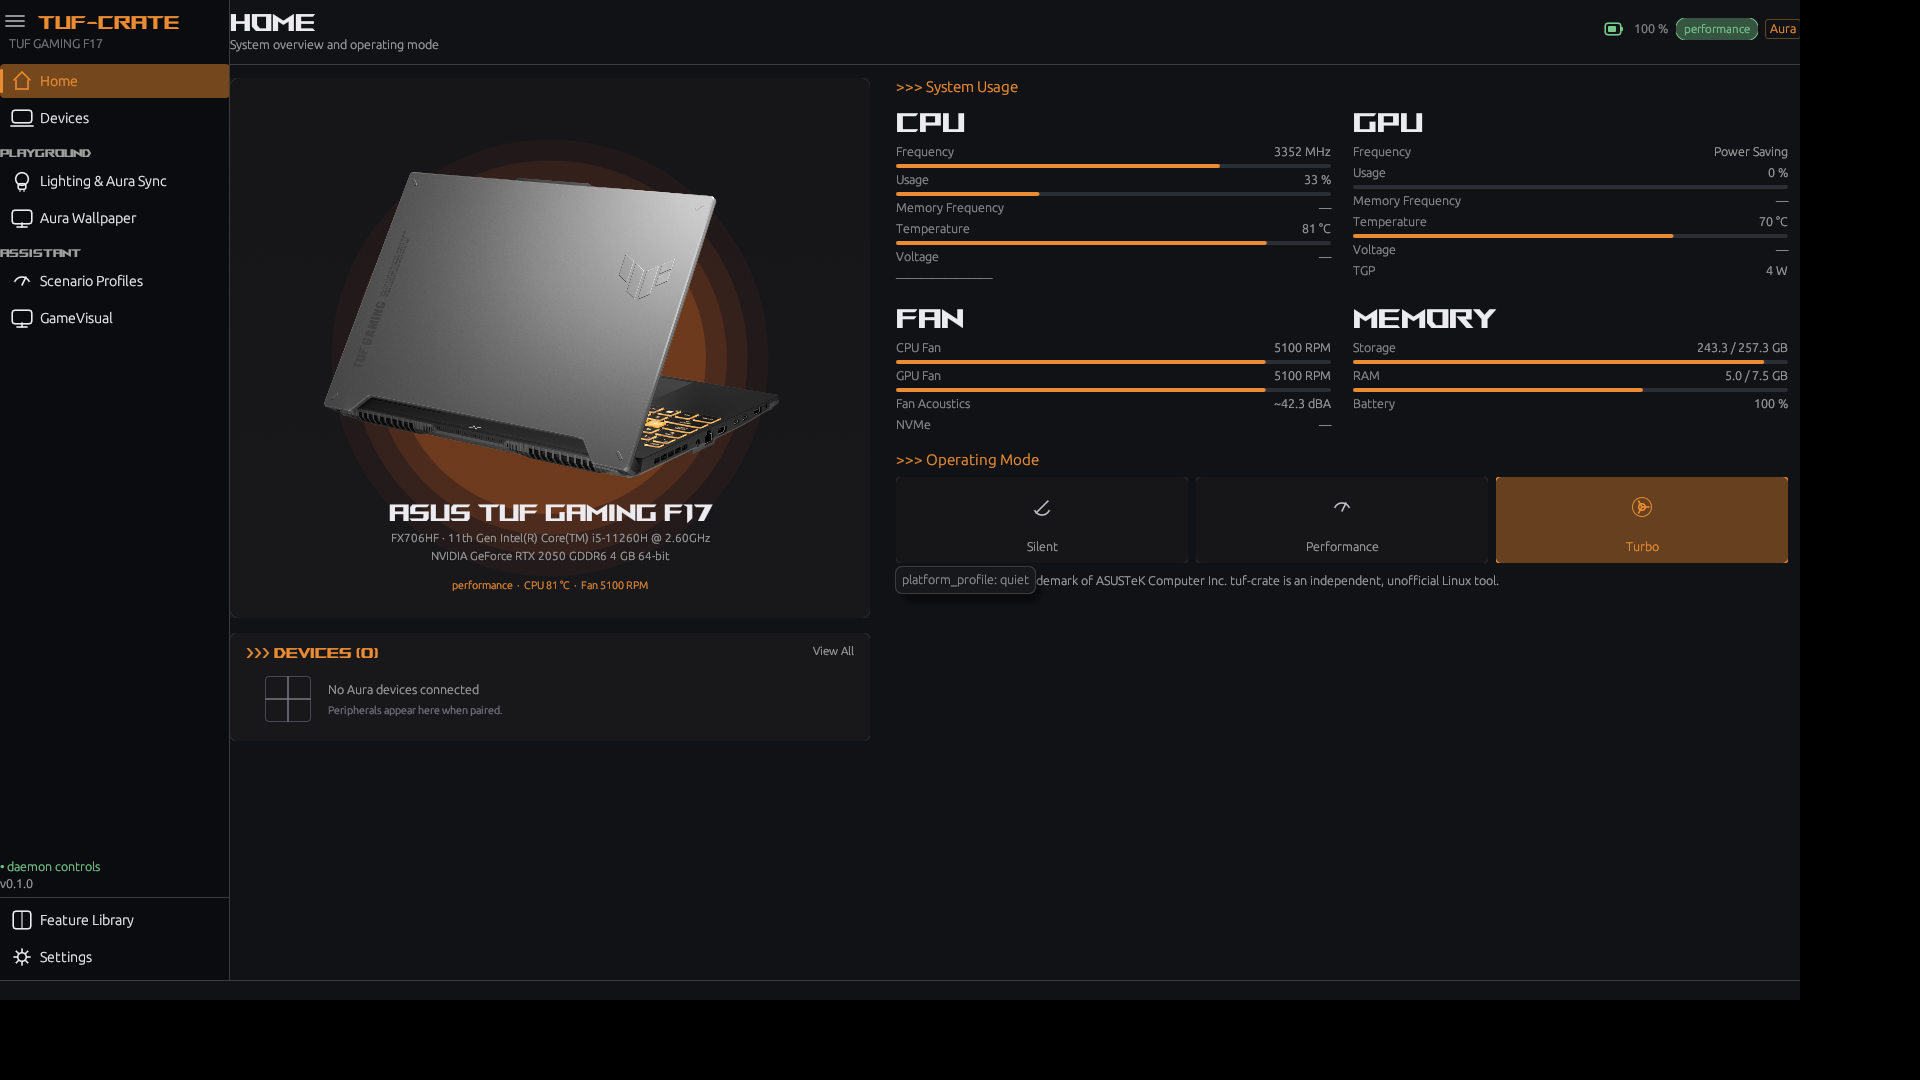
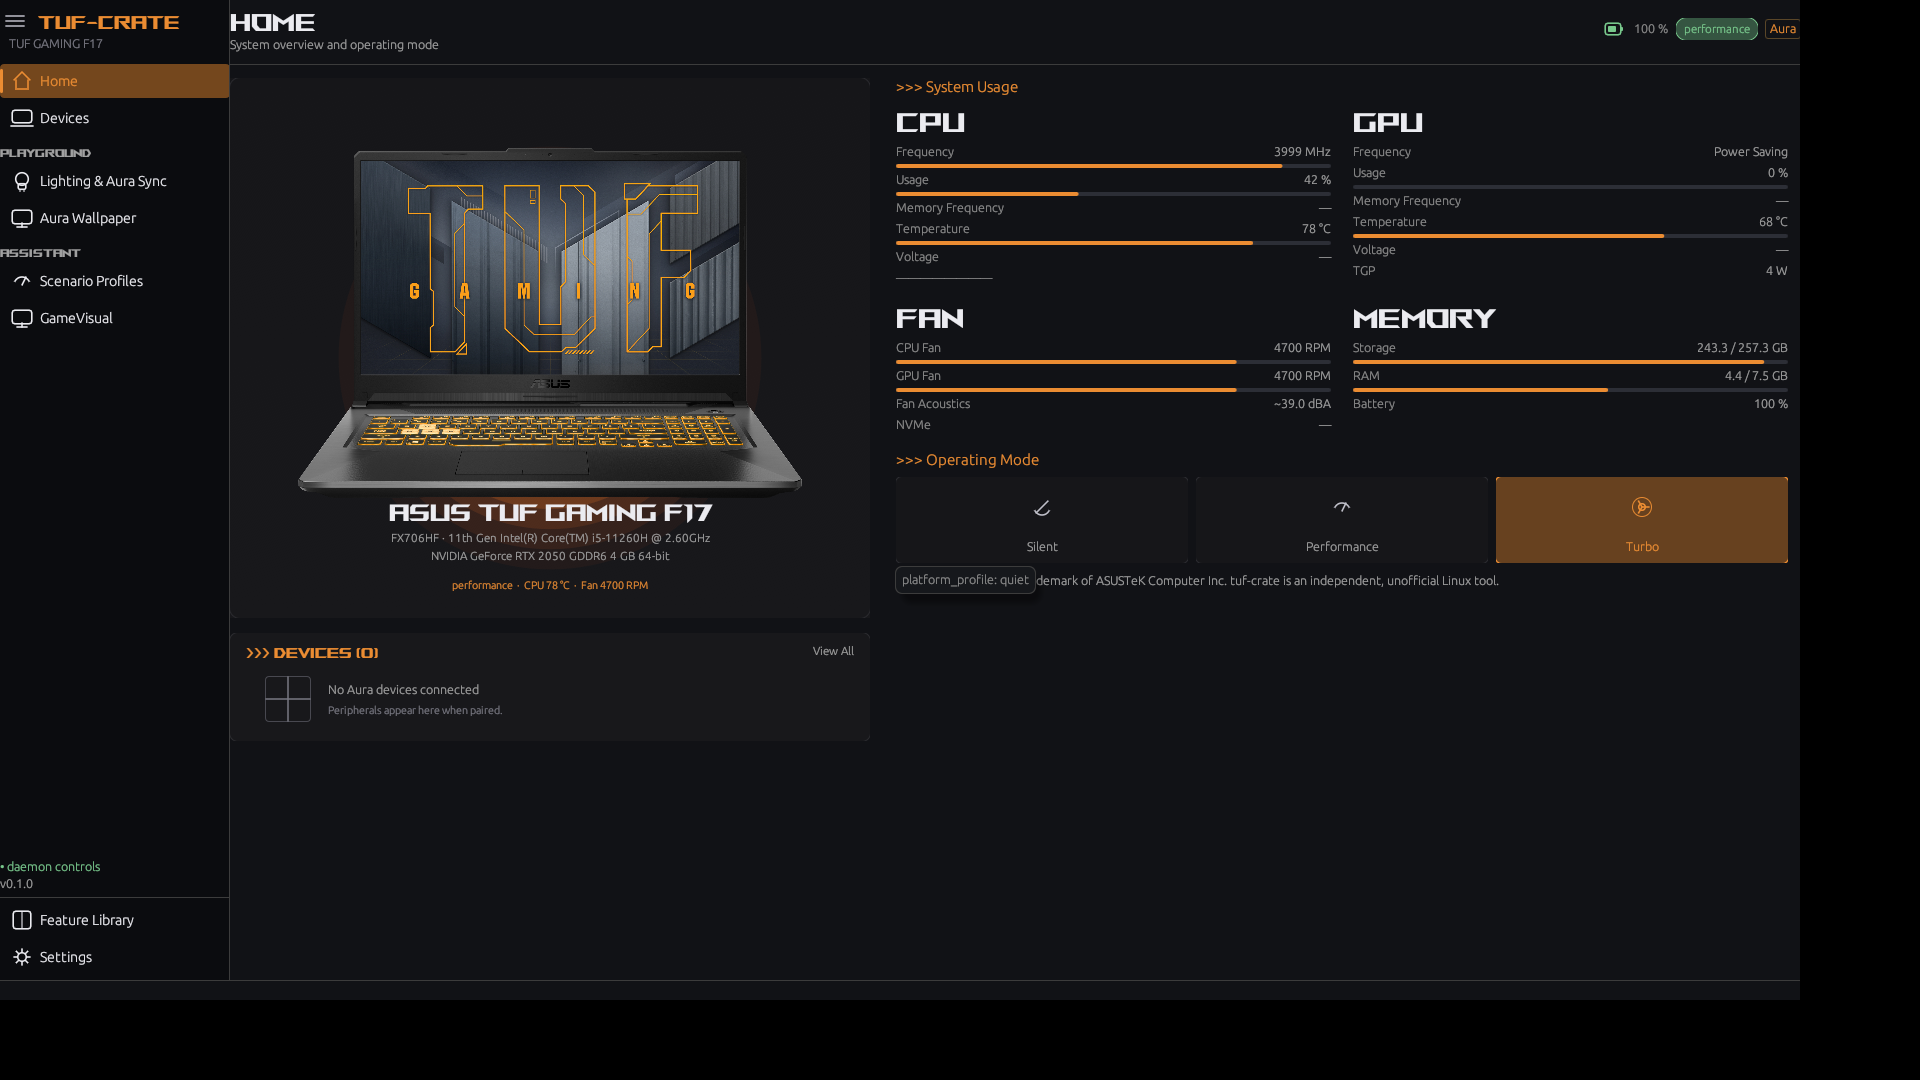
UI: recover the EXACT Armoury Home hero (ProductPNG cache) + model auto-load
- Found Armoury's downloaded hero cache at LocalState\ProductPNG\
  90NR0HC4-M003D0_crop.png (2160x1502 RGBA) — the actual Home image
- Stored local-only in assets/vendor-reference/hero-device/ with provenance,
  dimensions and SHA-256; model auto-detection (DMI board_name FX706HF) loads it
  at startup; official marketing render remains a fallback
- Docs updated with the exact source/part number/hashes; Home comparison and
  screenshots refreshed

Changed region(s): [[0.1562, 0.1222, 0.4375, 0.4889]]

diff --git a/docs/WINDOWS-ASSET-INVENTORY.md b/docs/WINDOWS-ASSET-INVENTORY.md
@@ -29,48 +29,27 @@ and `.csv` (SHA-256, bytes, dimensions per file):
 | Fonts | 2 | `ROGFonts-Regular.ttf` (display font, 112 mapped glyphs), `Glyphter.ttf` (1 glyph) |
 | Wallpapers | 0 usable | ProgramData wallpapers were **placeholder images** (grey broken-image icon), not real artwork — removed |
 
-## The hero laptop image — Armoury's own render is cloud-only; official ASUS render recovered
+## The hero laptop image — EXACT Armoury asset recovered
 
-The Armoury Home hero is **not a bundled asset**. The UWP resources contain only the
-decorative `ac_homepage_device_lines_*.svg` overlay and device list badges; `resources.pri`
-contains the runtime strings *“Reload Device Image”*, *“Failed to Reload Device Image”* and
-*“Please check your network connection and try again to reload the device image.”* — the
-render is fetched from ASUS's device-image service at runtime. No cached copy exists in the
-package, LocalState/LocalCache, ProgramData, the internet cache or `ArmouryCrate_v1.5.db`.
+The Home hero is **not** in the UWP package's `Assets` tree: Armoury downloads it at runtime
+into its UWP application data. That cache was found during this analysis:
 
-**Recovered instead:** the official ASUS TUF Gaming F17 product renders from the ASUS
-product CDN (design page assets), at 1718×1157 with transparency:
+```
+C:\Users\Aditya\AppData\Local\Packages\B9ECED6F.ArmouryCrate_qmba6cd70vzyy\
+  LocalState\ProductPNG\
+    90NR0HC4-M003D0.png       2400×2400  RGBA  (source product image)
+    90NR0HC4-M003D0_crop.png  2160×1502  RGBA  (what the Home page displays)
+```
 
-- `design_pd_01.png` → `assets/vendor-reference/hero-device/FX706HF.png`
-- `design_pd_02.png` → `FX706HF_alt.png`
-- `design_pd_03.png` → `FX706HF_keyboard.png`
+`90NR0HC4-M003D0` is the machine's ASUS part number. The cropped PNG is the **exact image
+shown on the Armoury Home screen** (front-facing TUF F17, TUF GAMING screen wallpaper, orange
+keyboard). SHA-256:
 
-These are genuine manufacturer renders of the same laptop, far closer to Armoury than a
-generic illustration. They remain **local-only** (gitignored; ASUS marketing artwork, not
-redistributed). `scripts/fetch-hero.sh` re-downloads them and prints SHA-256.
[2 lines of base64/hex data omitted]
 
-The application auto-detects the model from DMI (`/sys/class/dmi/id/board_name` →
-`FX706HF`), loads `hero-device/FX706HF.png`, and falls back to the original vector laptop
-only if the local asset is absent or the model is unknown.
-
-## Fonts
-
-`ROGFonts-Regular.ttf` is the Armoury display font. It is loaded **locally** at runtime
-(gitignored) as a dedicated `rog` family for page titles, section headings, CPU/GPU/Fan/
-Memory labels and the brand — body text uses the default sans, matching Armoury's mixed
-typography. If the file is absent the family falls back to the default font.
-
-## Splash / loading animation
-
-The startup animation is a **Lottie JSON** (`ac_common_splash.json`, TUF/ASUS/ROG
-variants). TUF Crate does not embed a Lottie runtime; the splash is recreated natively:
-black field, original `AC Logo.png` texture (if present), orange glow, rotating accent
-ring, fade-out and a thin progress line, using the same durations/ordering.
-
-## Licensing
-
-All extracted ASUS assets are proprietary and **excluded from Git**
-(`.gitignore: assets/vendor-reference/`). They are used locally on the owner's machine
-for visual fidelity. The redistributable originals created for this project
-(`assets/wallpapers/*.png`, vector icons, vector laptop render) are committed under
-`assets/` and `docs/images/`.
+Stored local-only in `assets/vendor-reference/hero-device/` (gitignored). The application
+copies the crop to `FX706HF.png` for the model-auto-detection loader; the original files are
+kept alongside for provenance. `scripts/fetch-hero.sh` downloads official ASUS product
+renders as a fallback and can be replaced by the ProductPNG extraction on a machine that has
+Armoury Crate installed.

diff --git a/docs/UI-COMPARISON.md b/docs/UI-COMPARISON.md
@@ -16,18 +16,18 @@ references are proprietary and are not committed).
 
 | Screen | RMSE | SSIM | Main differences |
 |---|---|---|---|
-| Home | 0.116 | 0.228 | hero is an original vector render (ASUS photo unavailable); right column proportions |
-| System Configuration | 0.099 | 0.220 | card illustrations/line icons; extra Linux controls below |
-| Free up memory | 0.076 | 0.191 | list styling, no CPU% column |
-| GPU Performance | 0.090 | 0.214 | card artwork, no process section |
-| Devices → Lighting | 0.108 | 0.217 | effect icon artwork |
+| Home | 0.119 | 0.234 | exact Armoury hero recovered from the app's ProductPNG cache; remaining differences are layout/content density |
+| System Configuration | 0.100 | 0.220 | card illustrations/line icons; extra Linux controls below |
+| Free up memory | 0.078 | 0.193 | list styling, no CPU% column |
+| GPU Performance | 0.091 | 0.214 | card artwork, no process section |
+| Devices → Lighting | 0.109 | 0.216 | effect icon artwork |
 | Splash | 0.109 | **0.481** | same logo/black field; Lottie timing vs native progress |
 | Settings General | 0.145 | 0.216 | theme preview sizes, page density |
-| Update Center | 0.077 | 0.202 | table density, native package rows |
-| Sync devices | 0.089 | 0.203 | device card artwork |
+| Update Center | 0.078 | 0.202 | table density, native package rows |
+| Sync devices | 0.090 | 0.203 | device card artwork |
 | Aura Effects | 0.119 | 0.223 | effect icon artwork, grid proportions |
-| AI Aura Lighting | 0.148 | 0.269 | gradient/artwork, cloud buttons disabled |
-| Aura Wallpaper | 0.074 | 0.212 | original wallpapers vs ASUS cloud art |
+| AI Aura Lighting | 0.149 | 0.268 | gradient/artwork, cloud buttons disabled |
+| Aura Wallpaper | 0.075 | 0.212 | original wallpapers vs ASUS cloud art |
 
 **Interpretation:** the structural shell, navigation, page composition and typography now
 match closely; pixel metrics are dominated by the unavailable ASUS photographic/illustrated

diff --git a/docs/UI-GAP.md b/docs/UI-GAP.md
@@ -8,7 +8,7 @@ Legend: ✅ matched · 🟡 approximate · ⛔ unavailable/intentionally closed
 ## 1. Home — `Screenshot_2026-10-31_055240/055253`
 | Windows element | TUF Crate | Status |
 |---|---|---|
-| Tall left product card, TUF F17 render | Left product card with the **official ASUS TUF F17 product render** (auto-detected model; Armoury's own cloud render unavailable) | 🟡 |
+| Tall left product card, TUF F17 render | Left product card with the **exact Armoury hero** recovered from `LocalState\ProductPNG\90NR0HC4-M003D0_crop.png`; model auto-detected | ✅ |
 | Model + CPU/GPU spec lines | Same lines, populated | ✅ |
 | Devices (0) card, dashed +, View All | Recreated, click → Devices | ✅ |
 | System Usage CPU/GPU/Fan/Memory with orange bars | Recreated with live telemetry; unavailable values shown as “—” | ✅ |

diff --git a/docs/UI-REDESIGN.md b/docs/UI-REDESIGN.md
@@ -43,8 +43,9 @@ The app loads:
 - `themes/ac_settings_img_*.png` for the six theme cards,
 - `wallpapers/` (vendor) plus the redistributable `assets/wallpapers/` originals.
 
-The hero laptop photograph is cloud-delivered and unavailable locally; the app draws an
-original vector laptop and documents the substitution (see asset inventory).
+The hero laptop photograph was recovered from the UWP app's `LocalState\ProductPNG`
+cache (`90NR0HC4-M003D0_crop.png`) and is loaded automatically for the detected model
+(`FX706HF`); the vector laptop is only a fallback when the local asset is absent.
 
 ## Animation & interaction
 
